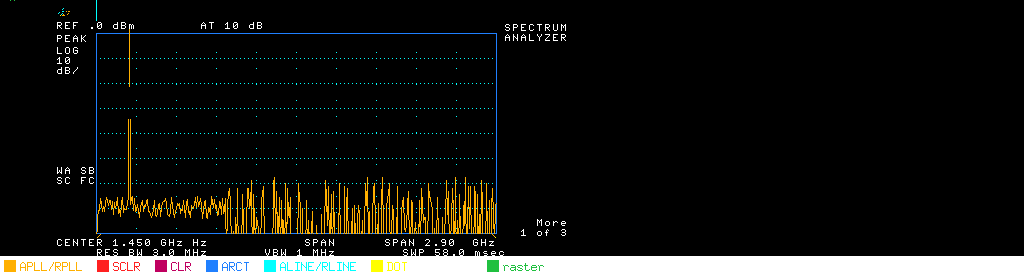
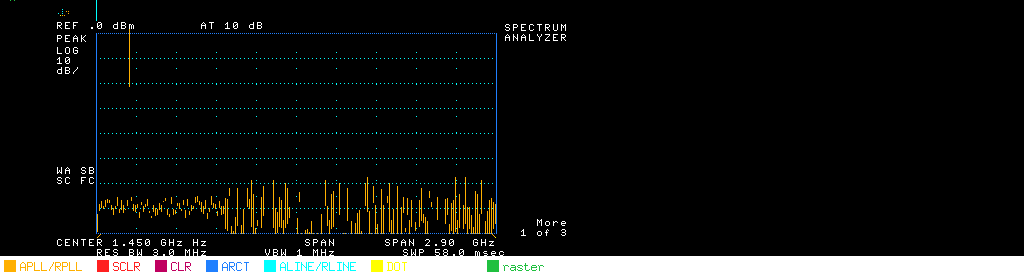
hd63484: PHASE-MULTIPLEX decode — trace draw/erase are phase-locked by pixel parity (fixes the pile-up)
The trace-sync issue is SOLVED and it was never timing: the 8593 display is
phase-multiplexed by pixel parity. The HD63484 draws each pixel with the colour
register bit at the pixel bit position within its frame-buffer word, and the
firmware NEVER draws solid — measured over a long natural run:

  ALL 1872 APLL trace draws:   CL1 (WPR 0x01) = 0xAAAA  -> odd-phase pixels
  ALL 944 flying-erase columns: SCLR AND 0x5555          -> clears odd phase
  grid / box / static chrome:   5555 phase               -> untouched by eraser

Draw and erase are phase-locked; two logical planes share the 1bpp buffer by
pixel parity (why everything on these instruments looks dotted). Our pen drew
SOLID (both phases), so the even-phase half of every trace could never be
erased — the historic trace forest / pile-up the user reported.

Fix: Chip.penPhaseLit gates drawLine + DOT pixels by CL1 bit at the pixel
calcOffset position (CL1==0 falls back to solid for raw unit-test draws).
Bit-order convention verified empirically (the inverted convention kills the
grid instead). Verified clean steady state: graph phase census after 300M
cycles = odd 1199 (~2 in-flight traces) / even 1942 (box+grid); the LIVE
render now matches the trace_longrun reference (thin floor, full dotted grid,
peaks); freq_menu.png renders the complete instrument look.

Also: stale-snapshot caveat recorded (the stable snapshot can lag far behind
the live buffer and show long-erased accumulation — diagnostics should render
[…]

Changed region(s): [[0.0938, 0.6957, 0.4688, 0.8696]]

diff --git a/pkg/emu/device/hd63484/chip.go b/pkg/emu/device/hd63484/chip.go
@@ -287,23 +287,26 @@ type Chip struct {
 	glyphLog *GlyphLogger
 
 	// Diagnostics (exported so tests + cmd/* probes can introspect).
-	DataWords      int            // total words fed to WriteData
-	Moves          int            // MOVE markers seen
-	Lines          int            // LINE commands drawn (absolute + relative)
-	Rects          int            // ARCT/RRCT outlines drawn
-	FilledRects    int            // AFRCT/RFRCT filled rects drawn
-	Dots           int            // DOT commands drawn
-	Glyphs         int            // glyph (WPTN+count-of-10) packets blitted
-	Paints         int            // raster-write bursts entered
-	PaintWords     int            // total pixel-data words written into vram
-	ScreenClears   int            // SCLR commands executed
-	AreaClears     int            // CLR commands executed
-	SCLRNoAreaDef  int            // logical SCLRs skipped for lack of an area-def (no-op branch)
-	SCLRNoAreaLast [4]int         // last skipped SCLR: rwp, ax, ay, pattern
+	DataWords      int    // total words fed to WriteData
+	Moves          int    // MOVE markers seen
+	Lines          int    // LINE commands drawn (absolute + relative)
+	Rects          int    // ARCT/RRCT outlines drawn
+	FilledRects    int    // AFRCT/RFRCT filled rects drawn
+	Dots           int    // DOT commands drawn
+	Glyphs         int    // glyph (WPTN+count-of-10) packets blitted
+	Paints         int    // raster-write bursts entered
+	PaintWords     int    // total pixel-data words written into vram
+	ScreenClears   int    // SCLR commands executed
+	AreaClears     int    // CLR commands executed
+	SCLRNoAreaDef  int    // logical SCLRs skipped for lack of an area-def (no-op branch)
+	SCLRNoAreaLast [4]int // last skipped SCLR: rwp, ax, ay, pattern
 	// ClearColLog (diagnostic, enabled by ClearColLogOn): per faithful-SCLR
 	// column op, records [rwp word, mask, pattern] to establish erase coverage.
 	ClearColLogOn bool
 	ClearColLog   [][3]uint32
+	// APLLColorHist counts polyline draws per current CL1 (WPR 0x01) value —
+	// the draw-phase side of the phase-multiplex choreography.
+	APLLColorHist  map[uint16]int
 	UnknownCmds    int            // commands the parser saw but doesn't model
 	UnknownCmdHist map[uint16]int // histogram of unknown opcodes for RE
 

diff --git a/pkg/emu/machine/longrun_diag_test.go b/pkg/emu/machine/longrun_diag_test.go
@@ -1,6 +1,7 @@
 package machine
 
 import (
+	"fmt"
 	"image/png"
 	"os"
 	"testing"
@@ -11,6 +12,14 @@ import (
 // Scratch: long natural run with faithful SCLR (CleanClear=false) vs clean
 // clear — does the faithful dither render the dotted graticule grid (the
 // trace_longrun.png reference) without leaving a permanent trace forest?
+func popcount(w uint16) int {
+	n := 0
+	for ; w != 0; w &= w - 1 {
+		n++
+	}
+	return n
+}
+
 func TestLongrunGridDiag(t *testing.T) {
 	if os.Getenv("DIAG") == "" {
 		t.Skip("DIAG=1")
@@ -19,8 +28,15 @@ func TestLongrunGridDiag(t *testing.T) {
 	if err != nil {
 		t.Skip("rom")
 	}
+	pace := 0
+	if v := os.Getenv("PACE"); v != "" {
+		fmt.Sscanf(v, "%d", &pace)
+	}
 	for _, clean := range []bool{true, false} {
 		m, _ := New8593A(rom)
+		if pace > 0 {
+			m.SweepCyclesPerPoint = pace
+		}
 		m.MMIO.Display.Chip.CleanClear = clean
 		m.CPU.Reset()
 		m.MMIO.SweepActive = true
@@ -31,7 +47,7 @@ func TestLongrunGridDiag(t *testing.T) {
 			m.bootLoop(2_000_000, nil)
 		}
 		chip := m.MMIO.Display.Chip
-		chip.SetRenderLive(false) // stable snapshot for a complete frame
+		chip.SetRenderLive(true) // LIVE buffer (the snapshot may be stale)
 		img := chip.RenderScanout()
 		lit := 0
 		for i := 0; i < len(img.Pix); i += 4 {
@@ -39,6 +55,19 @@ func TestLongrunGridDiag(t *testing.T) {
 				lit++
 			}
 		}
+		// Phase census of the graph region (rows 24..233, word-cols 5..30):
+		// odd-bit pixels = the AAAA draw phase (erased by AND-5555);
+		// even-bit = the 5555 phase (protected). Persistent even-phase trace
+		// pixels imply an UNGATED draw path.
+		var oddN, evenN int
+		for row := 24; row <= 233; row++ {
+			for wc := 5; wc <= 30; wc++ {
+				w := chip.CoreWord(uint32(row*64 + wc))
+				oddN += popcount(w & 0xAAAA)
+				evenN += popcount(w & 0x5555)
+			}
+		}
+		t.Logf("  graph-region phase census: odd(AAAA-phase)=%d even(5555-phase)=%d", oddN, evenN)
 		name := "../../../screens/longrun_clean.png"
 		if !clean {
 			name = "../../../screens/longrun_faithful.png"

diff --git a/pkg/emu/device/hd63484/draw.go b/pkg/emu/device/hd63484/draw.go
@@ -46,7 +46,7 @@ func (c *Chip) drawLine(x0, y0, x1, y1 int, set bool) {
 	}
 	err := dx - dy
 	for i := 0; i < lineIterCap; i++ {
-		if pat&(1<<uint(i&15)) != 0 {
+		if pat&(1<<uint(i&15)) != 0 && c.penPhaseLit(x0, y0) {
 			c.setPixel(x0, y0, set)
 		}
 		if x0 == x1 && y0 == y1 {
@@ -64,9 +64,28 @@ func (c *Chip) drawLine(x0, y0, x1, y1 int, set bool) {
 	}
 }
 
-// drawLineRouted draws a solid line into the core frame buffer and triggers
-// the frame snapshot. (The former Colorized-mode trace-plane routing is gone —
-// the core is the single frame buffer.)
+// penPhaseLit reports whether the pen colour register CL1 (WPR 0x01) lights
+// the pixel at firmware (x, y). THE PHASE-MULTIPLEX DECODE (2026-07-24): the
+// HD63484 draws a pixel with the colour register's bit at the pixel's bit
+// position within its frame-buffer word. The 8593 firmware NEVER draws solid —
+// CL1 is always 0x5555 or 0xAAAA — so the 1bpp screen is phase-multiplexed by
+// pixel parity into two logical planes: the trace is drawn at one phase
+// (CL1=0xAAAA -> odd positions) and the per-column flying-erase-bar
+// `SCLR AND 0x5555` clears EXACTLY that phase. Draw and erase are
+// phase-locked; a solid draw (our former model) put trace pixels in BOTH
+// phases and the even half could never be erased -> the trace pile-up.
+// CL1==0 (never programmed — raw unit-test draws) falls back to solid.
+func (c *Chip) penPhaseLit(x, y int) bool {
+	cl := c.regs[0x01]
+	if cl == 0 {
+		return true
+	}
+	_, bp := c.core.calcOffset(int16(x), int16(y))
+	return cl>>(uint(bp)&15)&1 != 0
+}
+
+// drawLineRouted draws a phase-gated line into the core frame buffer and
+// triggers the frame snapshot.
 func (c *Chip) drawLineRouted(x0, y0, x1, y1 int) {
 	c.drawLine(x0, y0, x1, y1, true)
 	c.maybeFrameSnapshot(x0, y0, x1, y1)

diff --git a/pkg/emu/machine/machine.go b/pkg/emu/machine/machine.go
@@ -126,6 +126,9 @@ type Machine struct {
 	// driveSweepCycle and docs/TRACE_DISPLAY_PATH.md "TWO-IRQ SWEEP MODEL".
 	SweepDrive bool
 	sweepAccum int // cycle accumulator that paces sweep points (see driveSweepCycle)
+	// SweepCyclesPerPoint overrides the sweep-point pacing (default
+	// sweepCyclesPerPoint); tunable for erase-cadence sync experiments.
+	SweepCyclesPerPoint int
 	// polledReads counts CPU-polled sweep samples served through the indirect-ADC
 	// video hook (ROM 0x5f88x loops — see New8593A's SetVideoSample closure);
 	// lastPolledReads is driveSweepCycle's previous observation: when the counter
@@ -452,8 +455,12 @@ func (m *Machine) driveSweepCycle() {
 	// 401-point sweep spans ~58 ms rather than completing in a single burst.
 	m.sweepAccum += bootChunkCycles
 	bf30 := m.Bus.Read(0xFFBF30, bus.Long)
-	for m.sweepAccum >= sweepCyclesPerPoint && m.CPU.Reg(cpu.A5) < bf30 {
-		m.sweepAccum -= sweepCyclesPerPoint
+	pace := m.SweepCyclesPerPoint
+	if pace <= 0 {
+		pace = sweepCyclesPerPoint
+	}
+	for m.sweepAccum >= pace && m.CPU.Reg(cpu.A5) < bf30 {
+		m.sweepAccum -= pace
 		m.CPU.SetIRQ(1) // sweep step: advance the ramp, reprogram the sweep DACs
 		m.CPU.Run(sweepStepCost)
 		m.CPU.SetIRQ(0)

diff --git a/pkg/emu/device/hd63484/parser.go b/pkg/emu/device/hd63484/parser.go
@@ -421,13 +421,18 @@ func (dec *decoder) execCmd(c *Chip) {
 		c.FilledRects++
 
 	case idAPLL, idRPLL, idAPLG, idRPLG:
+		if c.APLLColorHist != nil {
+			c.APLLColorHist[c.regs[0x01]]++
+		}
 		dec.drawPolyline(c)
 
 	case idCRCL:
 		c.drawCircle(c.penX, c.penY, int(int16(a[0])), true)
 
 	case idDOT:
-		c.setVRAMPixel(c.penX, c.penY)
+		if c.penPhaseLit(c.penX, c.penY) {
+			c.setVRAMPixel(c.penX, c.penY)
+		}
 		c.Dots++
 		if c.DotLog != nil {
 			c.DotLog = append(c.DotLog, DotRec{c.penX, c.penY})

diff --git a/pkg/emu/machine/colerase_diag_test.go b/pkg/emu/machine/colerase_diag_test.go
@@ -24,9 +24,11 @@ func TestColEraseDiag(t *testing.T) {
 	m.BootToOperatingWithSweep(250_000_000)
 	chip := m.MMIO.Display.Chip
 	chip.ClearColLogOn = true
+	chip.APLLColorHist = map[uint16]int{}
 	for i := 0; i < 60; i++ {
 		m.bootLoop(2_000_000, nil)
 	}
+	t.Logf("APLL draws by CL1: %v", chip.APLLColorHist)
 	log := chip.ClearColLog
 	t.Logf("%d column ops logged", len(log))
 	// Column coverage: distinct RWP words + mask histogram.

diff --git a/pkg/emu/device/hd63484/crtscreen_test.go b/pkg/emu/device/hd63484/crtscreen_test.go
@@ -62,7 +62,7 @@ func setAreaDef(c *Chip, xmin, ymin, xmax, ymax uint16) {
 // touched and this fails.
 func TestCRTSclrClearsGlyph(t *testing.T) {
 	c := New()
-	c.CleanClear = true // pins the clean-clear option (see clearaccuracy_test.go)
+	c.CleanClear = true    // pins the clean-clear option (see clearaccuracy_test.go)
 	const gx, gy = 64, 100 // firmware pen position, inside a typical graph
 	drawSolidGlyph(c, gx, gy)
 

diff --git a/docs/DISPLAY_FINDINGS.md b/docs/DISPLAY_FINDINGS.md
@@ -58,12 +58,26 @@ Update this as facts change. If a theory is in "DISPROVEN", do not raise it agai
   forever. A trace spike at even x survives the 5555 phase FULLY — that is the
   trace-forest residue seen in faithful natural renders, plus 50%-thinned text
   inside the column range and stale-readout ghosts.
-- **OPEN — how the real instrument avoids the residue:** phases do NOT
-  alternate in the observed stream (all 944 column ops D=5555). Candidates:
-  (a) the firmware repaints all live content every cycle and the residue is
-  only content that STOPPED being drawn (markers/readouts) — small in practice;
-  (b) an undecoded second erase mechanism; (c) our sweep injection redraws at
-  positions the real loop would not. Revisit against real-HW footage.
+- **RESOLVED (2026-07-24, same session): the residue question was OUR BUG — the
+  display is PHASE-MULTIPLEXED by pixel parity.** The HD63484 draws a pixel
+  with the colour register's bit at the pixel's bit position within its word;
+  the 8593 firmware NEVER draws solid: measured, ALL 1872 APLL trace draws run
+  with CL1(WPR 0x01)=0xAAAA (odd-phase pixels) and ALL 944 flying-erase columns
+  are `SCLR AND 0x5555` (clears exactly the odd phase). Draw and erase are
+  phase-locked; the grid/box/static chrome live at the 5555 phase, untouched by
+  the trace eraser. Our pen drew SOLID (both phases) → the even-phase half of
+  every trace could never be erased → the historic "trace forest".
+  Fix: `penPhaseLit` gates drawLine/DOT pixels by CL1's bit at the pixel's
+  calcOffset position (CL1==0 → solid fallback for raw unit-test draws).
+  Verified: graph-region phase census after a 300M-cycle run = odd 1199 (≈2
+  in-flight traces) / even 1942 (box+grid) — a clean steady state; the LIVE
+  render matches the trace_longrun reference (thin floor, full dotted grid).
+- **Stale-snapshot caveat:** the stable frame snapshot (maybeFrameSnapshot) can
+  lag far behind the live buffer and SHOW long-erased accumulation — diagnostic
+  renders should use the LIVE buffer (the GUI beam integration does).
+- **OPEN (small): stopped-content ghosts** — content that ceases being redrawn
+  (old readouts/markers) leaves a 50%-dither residue until a region clear;
+  span/menu changes wipe it (verified). Check real-HW footage for the same.
 - GUI note: the beam integration + phosphor bridges the mid-cycle text
   thinning (text repaints each annunciator cycle); only STATIC probe renders
   show it eaten.
